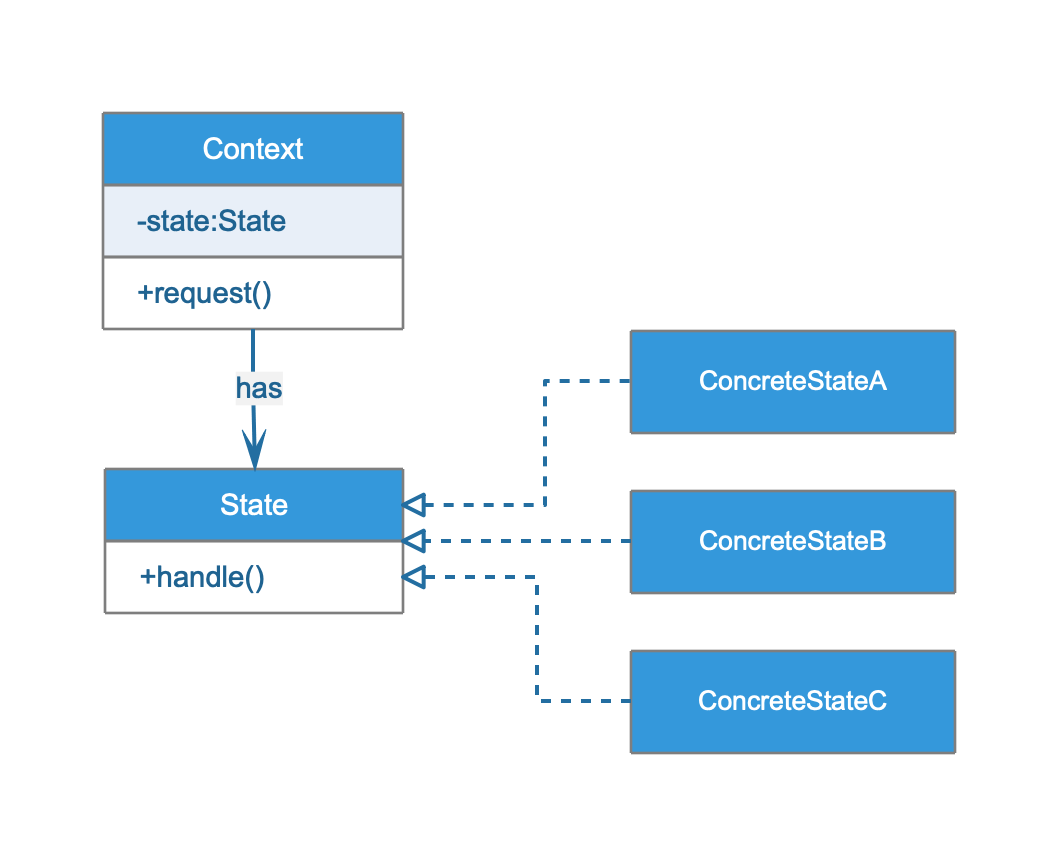
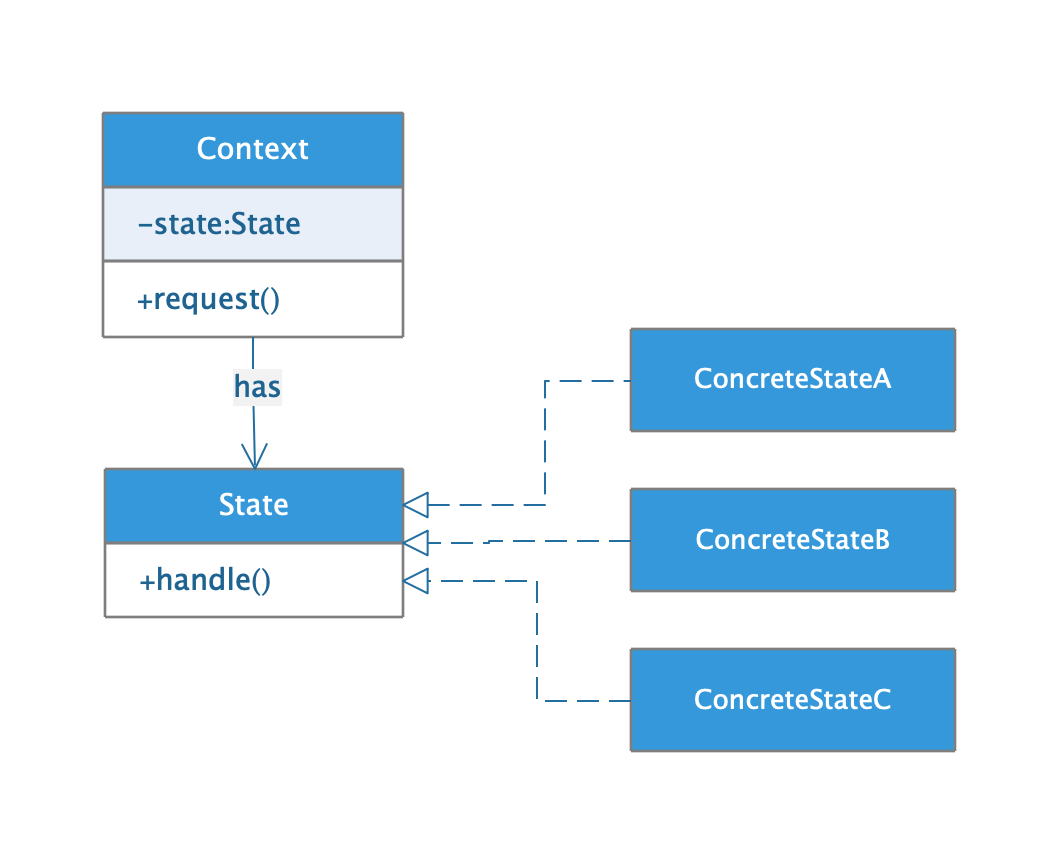
fix pic

diff --git a/develop/design_pattern.md b/develop/design_pattern.md
@@ -88,6 +88,22 @@
   1. [意图](#20.1)
   2. [类图](#20.2)
 
+* ##### [解释器模式(Interpreter)](#21)
+  1. [意图](#21.1)
+  2. [类图](#21.2)
+
+* ##### [中介者模式(Mediator)](#22)
+  1. [意图](#22.1)
+  2. [类图](#22.2)
+
+* ##### [备忘录模式(Memento)](#23)
+  1. [意图](#23.1)
+  2. [类图](#23.2)
+
+* ##### [访问者模式(Visitor)](#24)
+  1. [意图](#24.1)
+  2. [类图](#24.2)
+
 <h3 id="1">面向对象</h3>
 
 <h4 id="1.1">OO特征</h4>
@@ -165,7 +181,7 @@ public class ValueAnimator extends Animator implements AnimationHandler.Animatio
 
 以ListView用到的观察者模式为例：
 
-<img src="../assets/images/edraw/uml_observer.png?v=2" width="1000">
+<img src="../assets/images/edraw/uml_observer.png?v=3" width="1000">
 
 <h3 id="5">装饰者模式(Decorator)</h3>
 
@@ -327,7 +343,7 @@ public class ThreadPoolExecutor extends AbstractExecutorService {
 
 <h4 id="14.2">类图</h4> 
 
-<img src="../assets/images/edraw/uml_state.png" width="500">
+<img src="../assets/images/edraw/uml_state.png?v=1" width="500">
 
 <h3 id="15">代理模式</h3>
 
@@ -395,5 +411,34 @@ public class ThreadPoolExecutor extends AbstractExecutorService {
 
 <img src="../assets/images/edraw/uml_responsibility.png" width="500">
 
+<h3 id="21">解释器模式(Interpreter)</h3>
 
+<h4 id="21.1">意图</h4> 
 
+给定一个语言，定义它的文法的一种表示，并定义一个解释器，这个解释器使用该表示来解释语言中的句子。
+
+<h4 id="21.2">类图</h4> 
+
+<h3 id="22">中介者模式(Mediator)</h3>
+
+<h4 id="22.1">意图</h4> 
+
+用一个中介来封装一系列的对象交互。中介者使各个对象不需要显示地相互引用，从而使其耦合松散，而且可以独立地改变他们之间的交互。
+
+<h4 id="22.2">类图</h4> 
+
+<h3 id="23">备忘录模式(Memento)</h3>
+
+<h4 id="23.1">意图</h4> 
+
+在不破坏封装性的前提下，捕获一个对象的内部状态，并在该对象之外保存这个状态，这样以后就可以将该对象恢复到原先保存的状态。
+
+<h4 id="23.2">类图</h4> 
+
+<h3 id="24">访问者模式(Visitor)</h3>
+
+<h4 id="24.1">意图</h4> 
+
+表示一个作用于某对象结构中的各元素的操作。它使你可以在不改变各元素的类的前提下定义作用于这些元素的新操作。
+
+<h4 id="24.2">类图</h4> 
